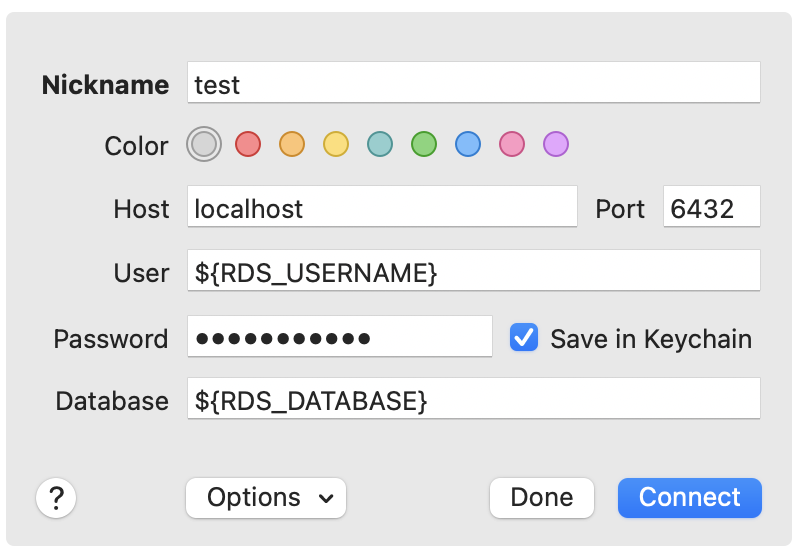
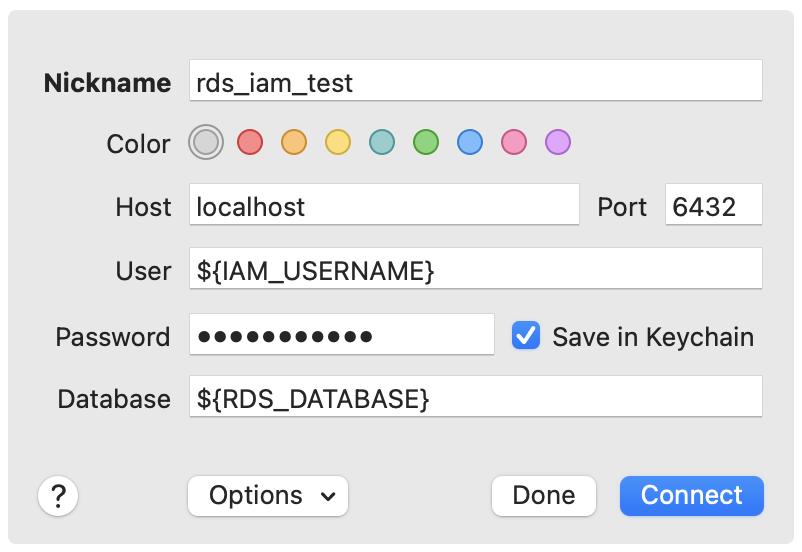
updated ci and readme (#6)

diff --git a/README.md b/README.md
@@ -82,7 +82,7 @@ In this example, we will use [Postico](https://eggerapps.at/postico2/) to connec
 
 ![Postico DB Connection Configuration](postico-connection-configuration.png)
 
-- Put the value of `RDS_USERNAME` in the `User` field
+- Put the value of `IAM_USERNAME` in the `User` field
 - Put your database name in the `Database` field
 - Put the `pgpx` proxy hostname in the 'Host' field (default: `localhost`)
 - Put the `pgpx` proxy port in the `Port` field (default: `6432`)
